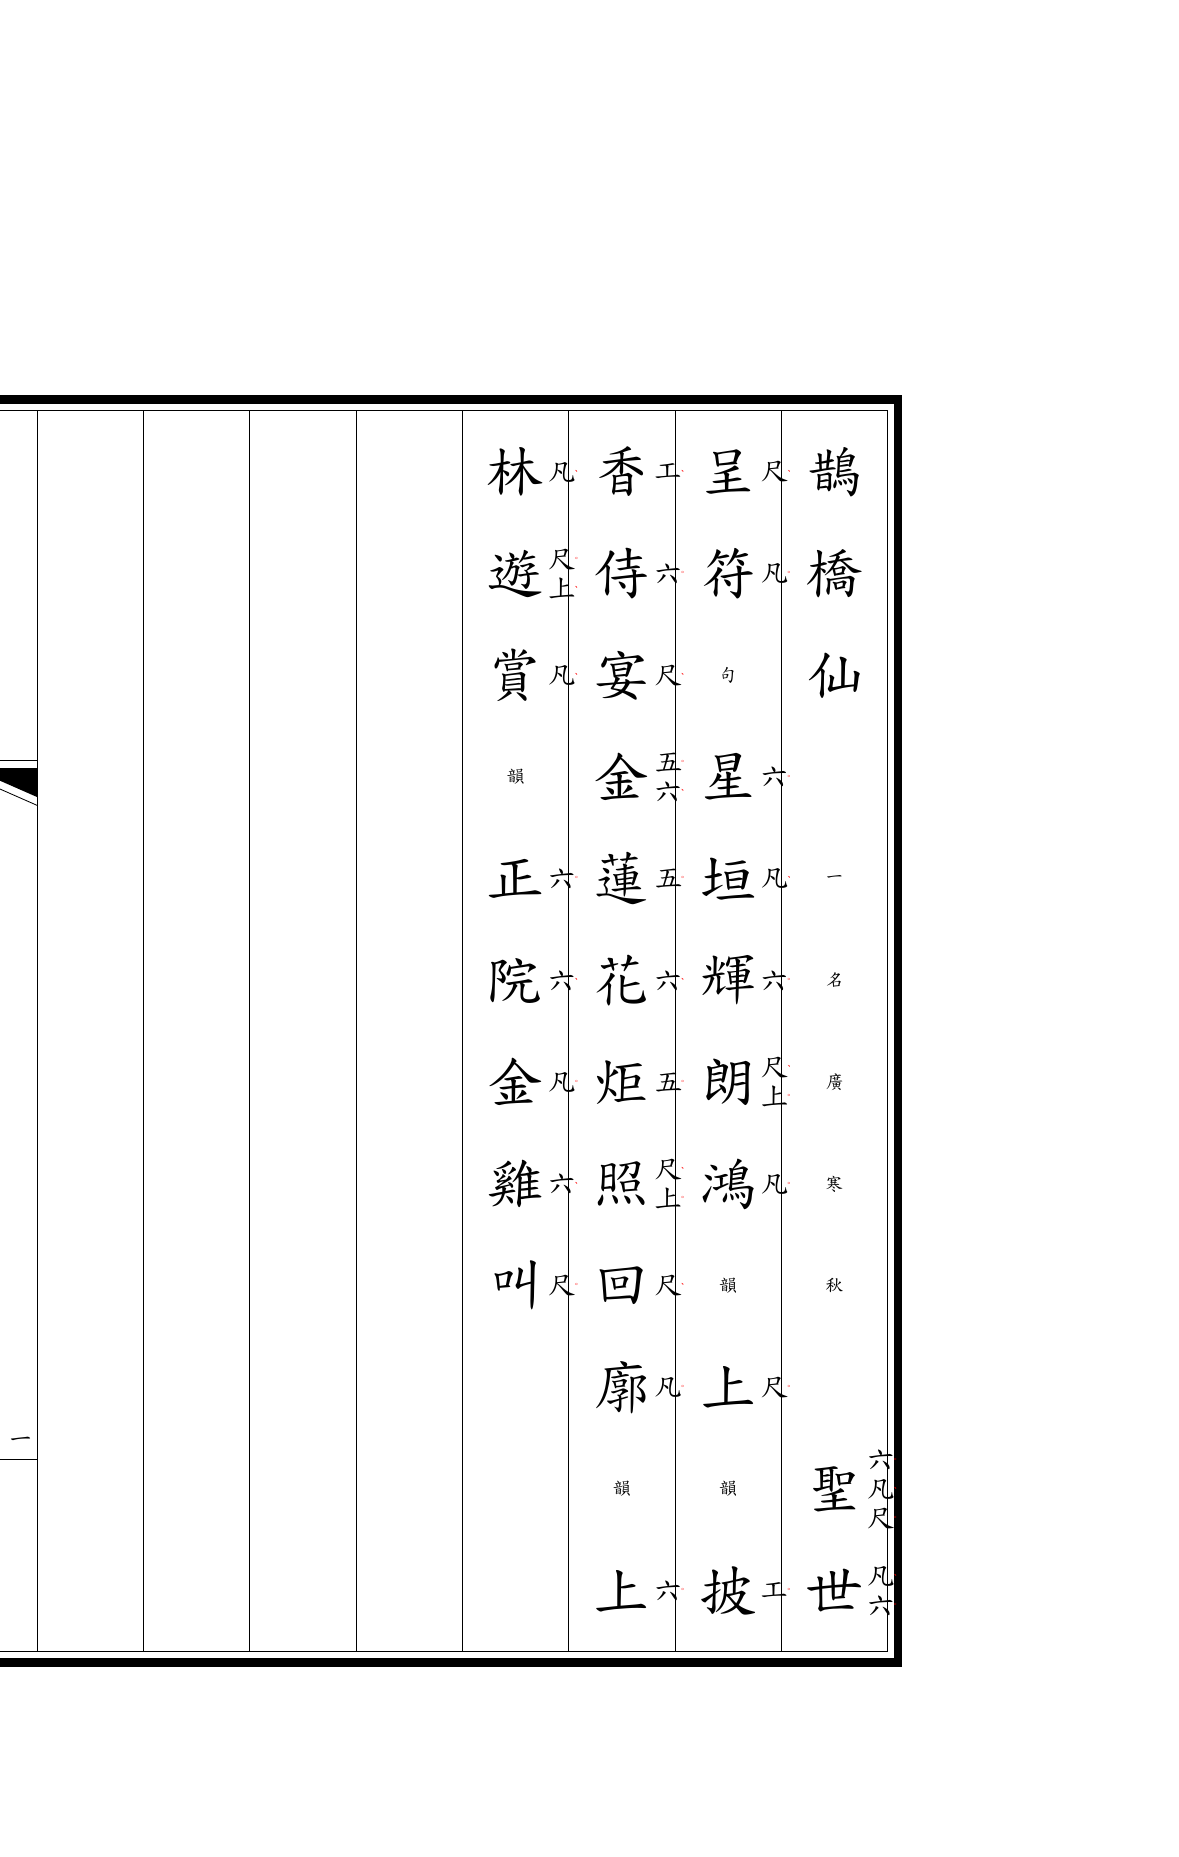
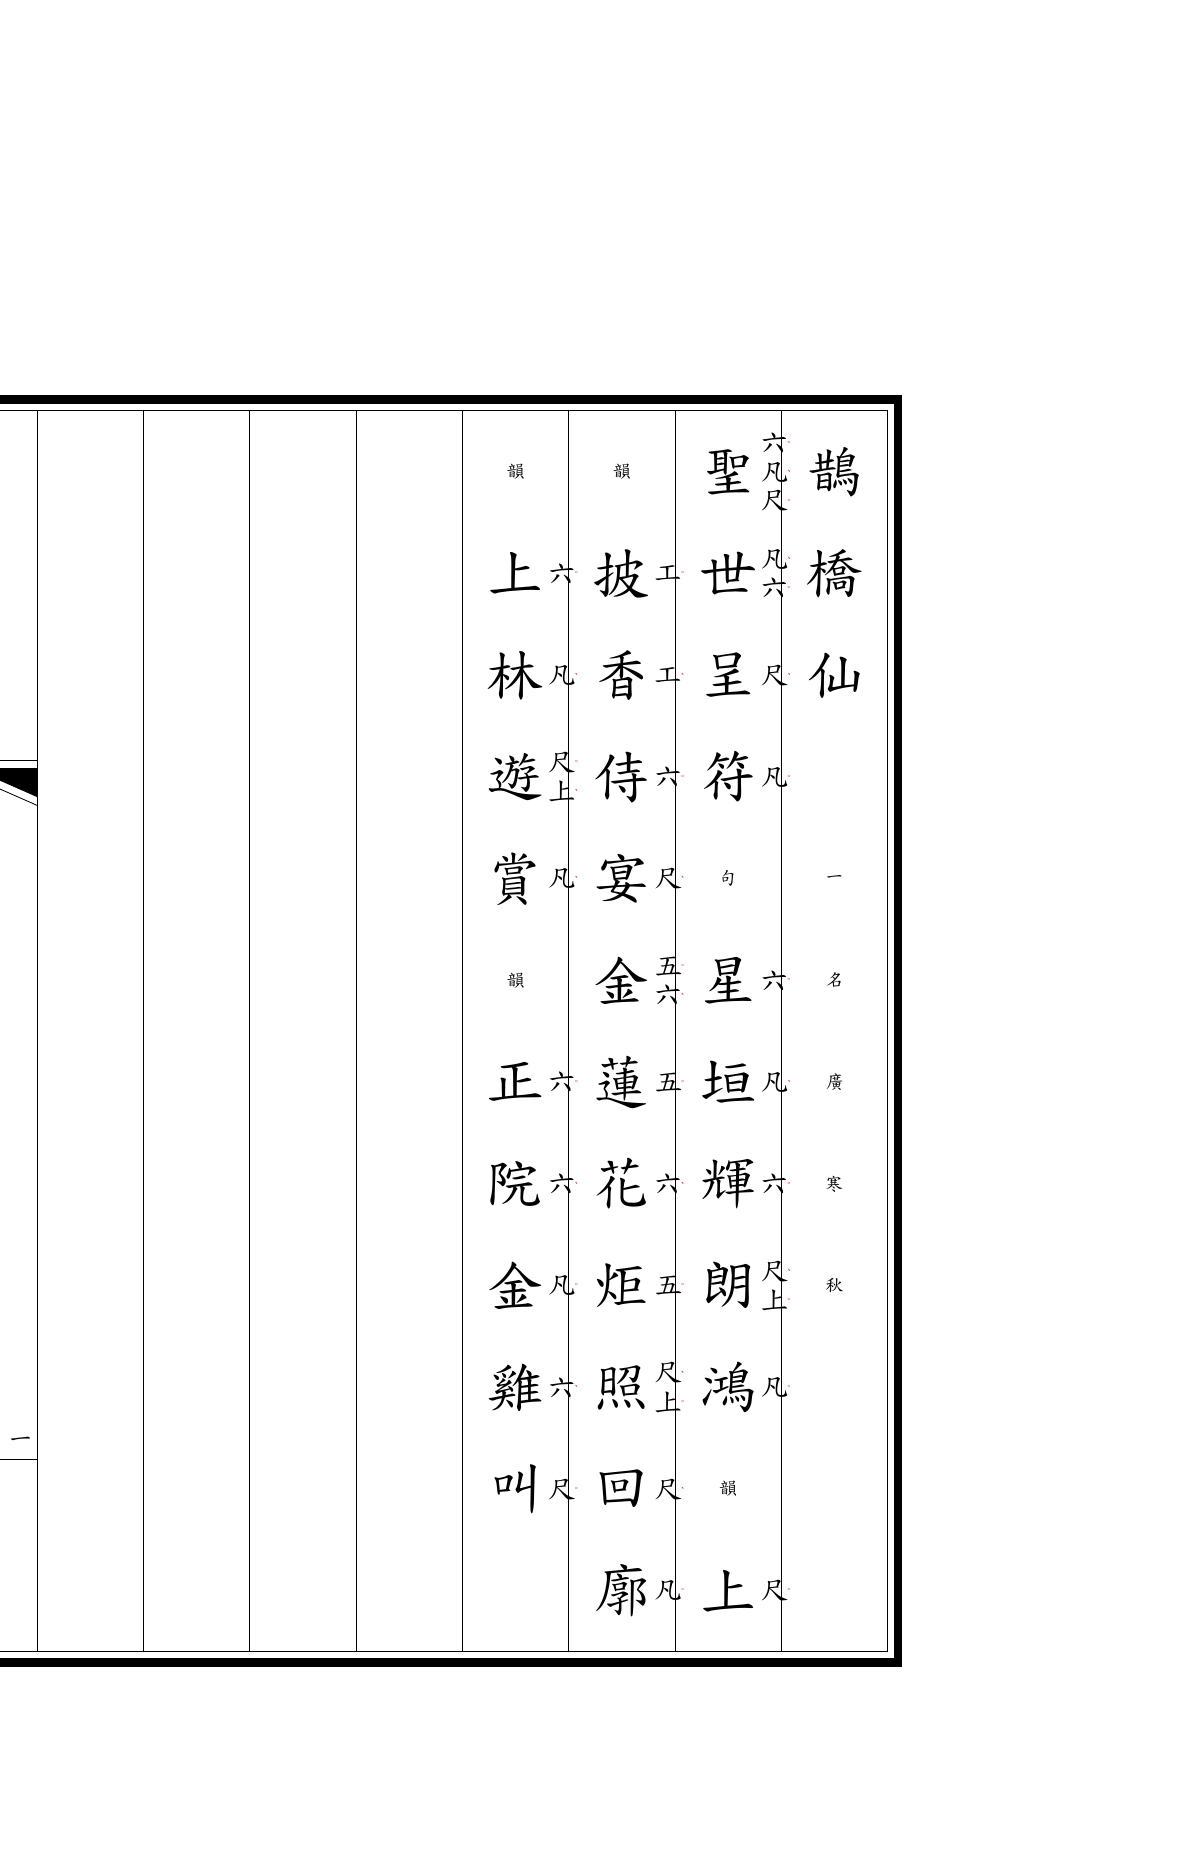
docs(示例/工尺谱): 子标题独占一列 (\换行) 匹配 ref 印本结构
ref-2 印本和 ref-1 抄本中, 调名/曲牌名都独占一列,
不与正文挤在同一列. 利用 \换行 (PENALTY_FORCE_COLUMN) 实现:

- 圣世呈符: 鵲橋仙\空格\调名注{一名廣寒秋}\换行
  → Col 1: 子标题独占; Col 2: 聖世呈符句·星垣輝朗鴻韻 完整
- 西厢: \宫调{仙吕調}\换行
  → Col 1: 子标题独占; Col 2: 影雲間月明如水浸樓臺·原來

更接近 ref 印本的"标题列 + 多个连续短句列"风格.

diff --git a/示例/工尺谱/圣世呈符.tex b/示例/工尺谱/圣世呈符.tex
@@ -21,8 +21,8 @@
 
 \begin{document}
 \begin{正文}
-% 内联子标题 (印本风格: 调名 + 别名同列)
-鵲橋仙\空格\调名注{一名廣寒秋}
+% 内联子标题 (印本风格: 调名 + 别名独占一列, ref-2 同款)
+鵲橋仙\空格\调名注{一名廣寒秋}\换行
 % --- 第一句: 聖世呈符·句 / 星垣輝朗鴻·韻 ---
 \工尺{聖}{\音[板]{六}\音[眼]{凡}\音[板]{尺}}%
 \工尺{世}{\音[眼]{凡}\音[板]{六}}%

diff --git a/示例/工尺谱/西厢记佳期.tex b/示例/工尺谱/西厢记佳期.tex
@@ -26,8 +26,8 @@
 
 \begin{document}
 \begin{正文}
-% 宫调注 (内联子标题)
-\宫调{仙吕調}
+% 宫调注 (子标题独占一列)
+\宫调{仙吕調}\换行
 % --- 第一句: 影雲間月明如水浸樓臺 ---
 \工尺{影}{\音[板]{尺}\音[眼]{工}}%
 \工尺{雲}{\音[板]{六}}%
